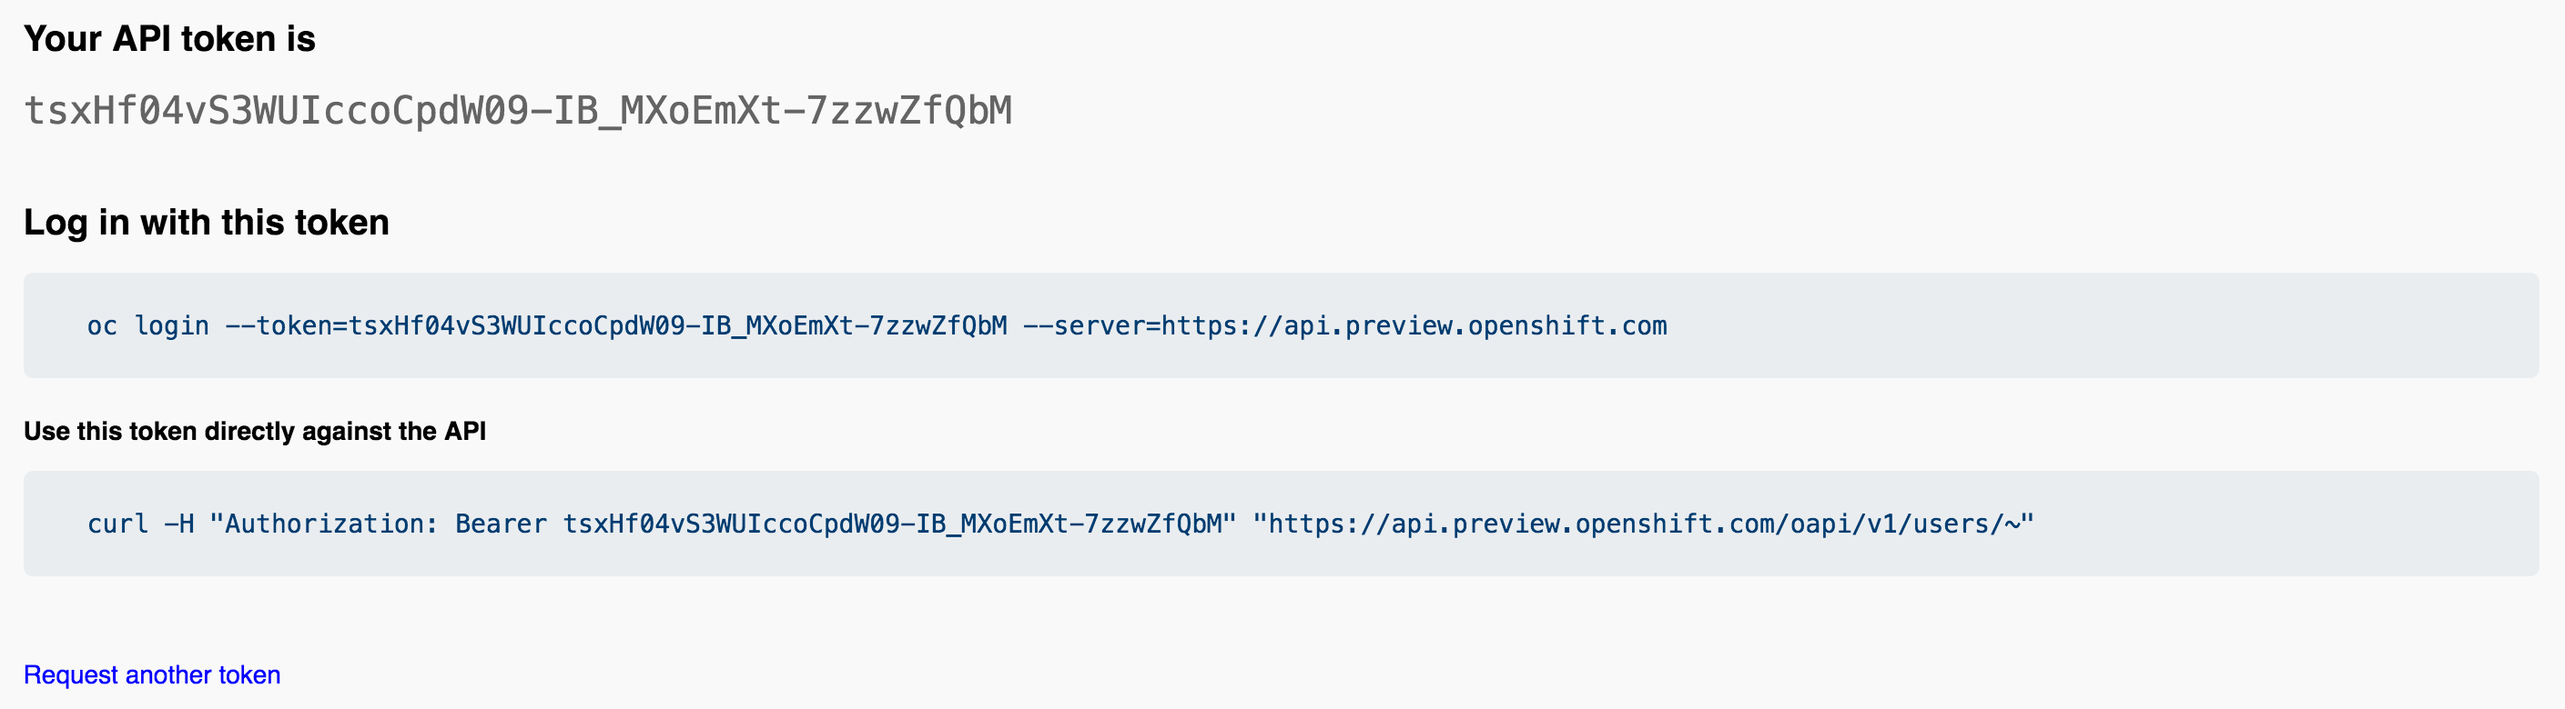
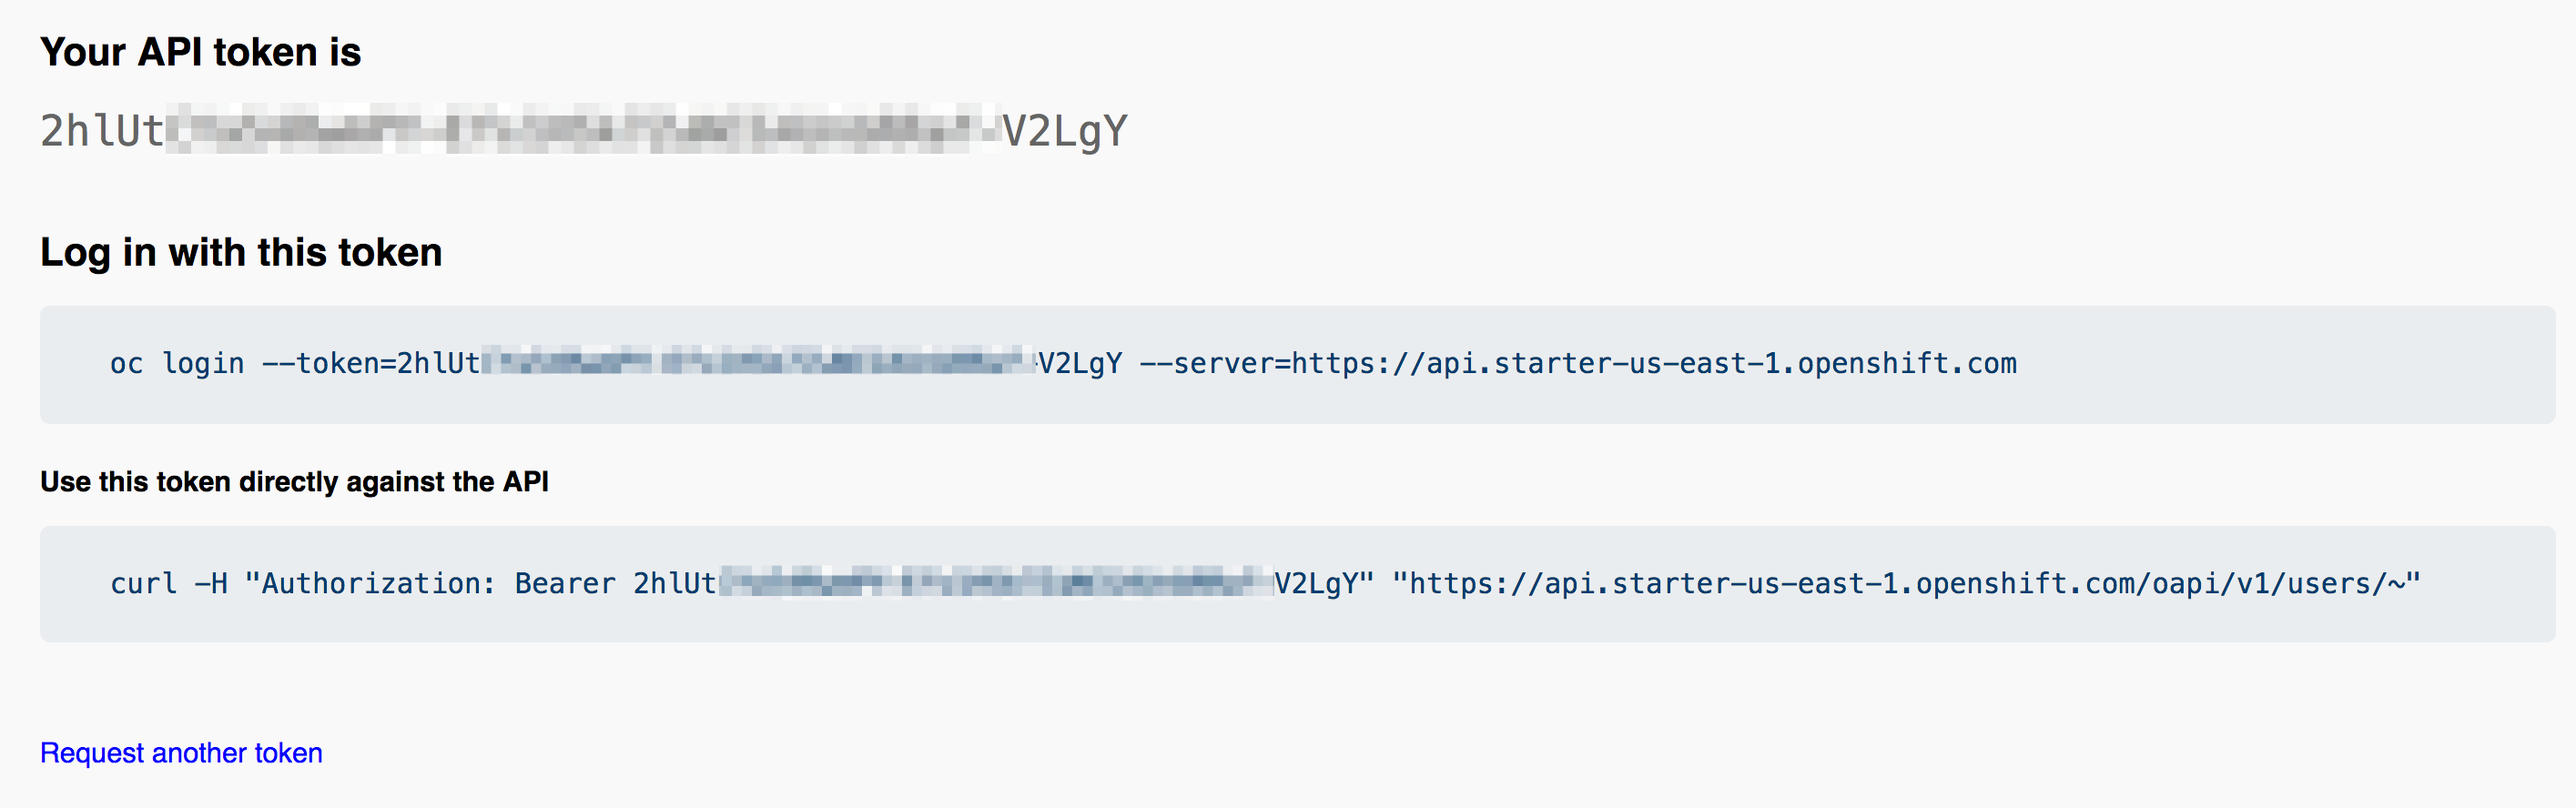
Switch access token request to Online free tier.

diff --git a/intro-openshift/cluster-access/02-logging-in-via-the-command-line.md b/intro-openshift/cluster-access/02-logging-in-via-the-command-line.md
@@ -42,17 +42,17 @@ You can list all the projects you currently have access to by running:
 
 ``oc get projects``{{execute}}
 
-In the case of an external authentication service being used as the identity provider, such as in OpenShift Online Developer Preview, the required steps are a bit different.
+In the case of an external authentication service being used as the identity provider, the required steps are a bit different.
 
 If you login using ``oc login`` on the command line you will be presented with an error message:
 
 ```
 Login failed (401 Unauthorized)
 You must obtain an API token by visiting
-  https://api.preview.openshift.com/oauth/token/request
+  https://api.starter-us-east-1.openshift.com/oauth/token/request
 ```
 
-You would visit the link given, logging in first via GitHub if necessary. This will land you at a page looking like:
+You would visit the link given, logging in first via the separate authentication service if necessary. This will land you at a page looking like:
 
 ![Request Access Token](../../assets/intro-openshift/cluster-access/02-request-access-token.png)
 
